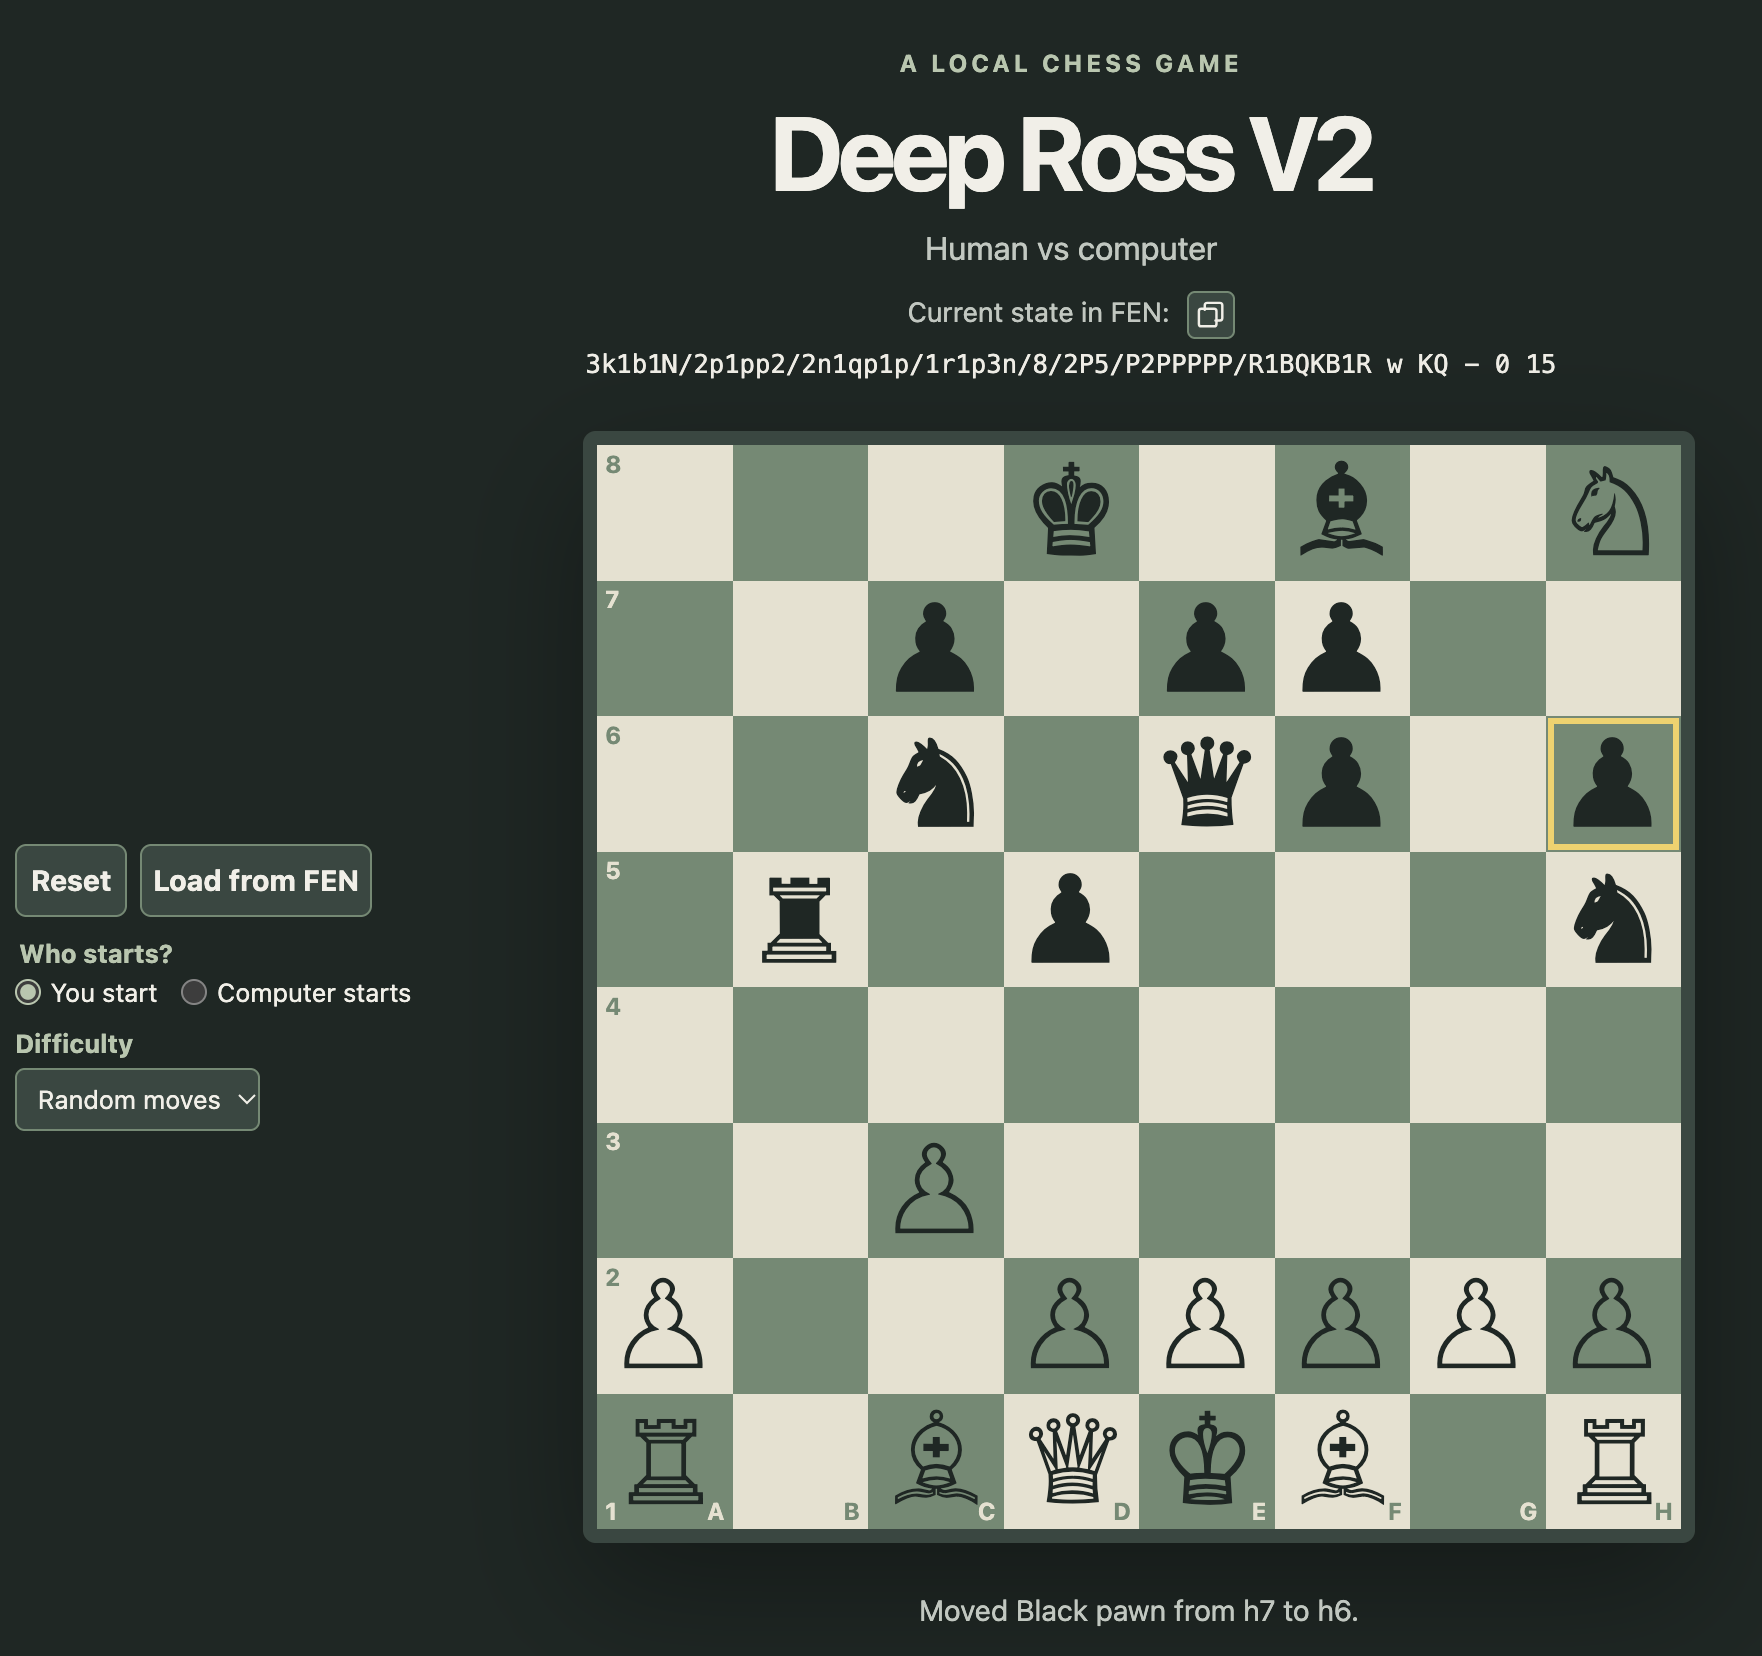
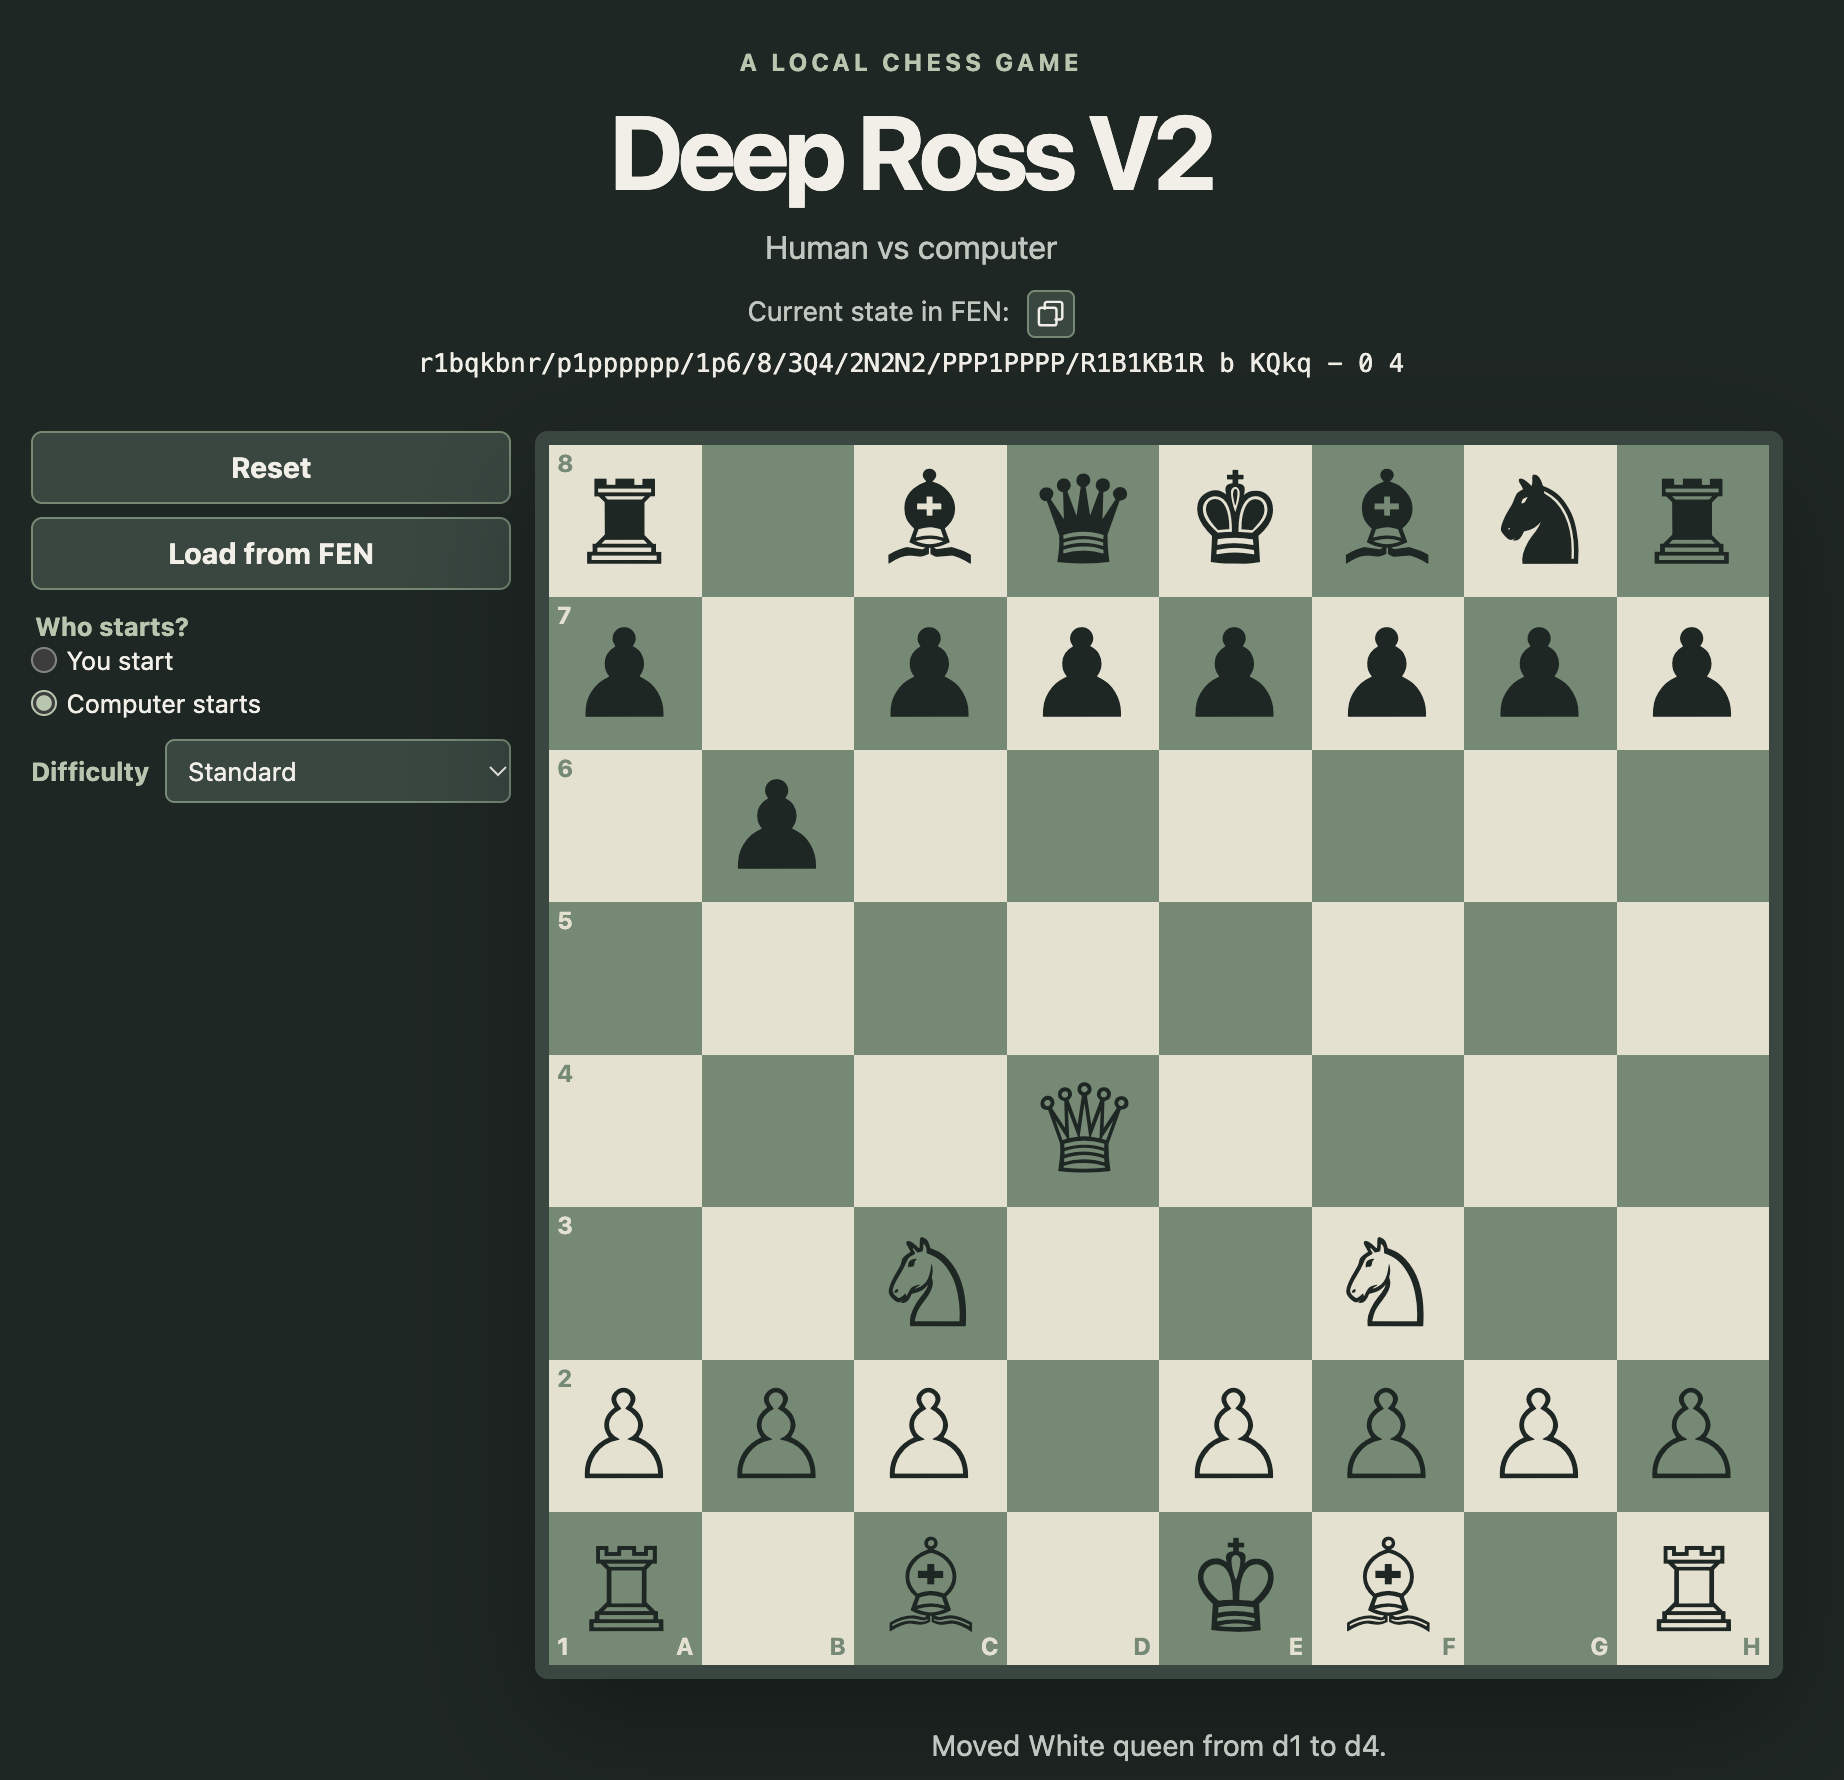
Changed styling

Changed region(s): [[0.0, 0.0308, 0.9677, 0.9855], [0.0, 0.4928, 0.2185, 0.7083]]

diff --git a/src/styles.css b/src/styles.css
@@ -102,27 +102,28 @@ h1 {
 
 .game {
     display: grid;
-    width: min(94vw, 39rem);
-    grid-template-columns: 3.5rem minmax(0, 1fr);
-    align-items: center;
+    width: min(94vw, 55rem);
+    grid-template-columns: minmax(12rem, 15rem) minmax(0, 39rem);
+    align-items: start;
     gap: 0.75rem;
 }
 
 .game-controls {
     grid-column: 1;
     grid-row: 1;
-    width: 17rem;
-    justify-self: end;
+    width: 100%;
+    justify-self: stretch;
 }
 
 .game-actions {
-    display: flex;
-    align-items: center;
+    display: grid;
+    grid-template-columns: minmax(0, 1fr);
     gap: 0.4rem;
 }
 
 .reset-button {
-    width: 3.5rem;
+    width: 100%;
+    min-width: 0;
     padding: 0.55rem 0.35rem;
     border: 1px solid #718b73;
     border-radius: 0.35rem;
@@ -135,7 +136,7 @@ h1 {
 }
 
 .load-fen-button {
-    width: auto;
+    width: 100%;
 }
 
 .reset-button:hover {
@@ -148,11 +149,10 @@ h1 {
 }
 
 .side-choice {
-    display: flex;
-    width: max-content;
+    display: grid;
+    width: 100%;
     max-width: 100%;
-    flex-wrap: nowrap;
-    gap: 0.35rem 0.75rem;
+    gap: 0.4rem;
     margin: 0.65rem 0 0;
     padding: 0;
     border: 0;
@@ -160,7 +160,7 @@ h1 {
 }
 
 .side-choice legend {
-    margin-bottom: 0.3rem;
+    margin-bottom: 0.15rem;
     color: #b7c8ae;
     font-weight: 700;
 }
@@ -169,7 +169,7 @@ h1 {
     display: flex;
     align-items: center;
     gap: 0.3rem;
-    white-space: nowrap;
+    white-space: normal;
 }
 
 .side-choice input {
@@ -179,8 +179,10 @@ h1 {
 
 .difficulty-choice {
     display: grid;
-    width: max-content;
-    gap: 0.3rem;
+    width: 100%;
+    grid-template-columns: auto minmax(0, 1fr);
+    align-items: center;
+    gap: 0.5rem;
     margin-top: 0.65rem;
     color: #b7c8ae;
     font-size: 0.8rem;
@@ -188,6 +190,7 @@ h1 {
 }
 
 .difficulty-choice select {
+    width: 100%;
     max-width: 100%;
     padding: 0.4rem;
     border: 1px solid #718b73;
@@ -430,48 +433,43 @@ h1 {
         display: grid;
         width: 100%;
         justify-self: start;
-        gap: 0 0.75rem;
-        grid-template-columns: auto 1fr auto;
-        align-items: center;
+        grid-template-columns: repeat(2, minmax(0, 1fr));
+        align-items: start;
+        gap: 0.75rem;
         margin-bottom: 0.75rem;
     }
 
     .game-actions {
-        grid-column: 1;
+        grid-column: 1 / -1;
         grid-row: 1;
     }
 
     .side-choice {
         grid-column: 2;
-        grid-row: 1;
+        grid-row: 2;
         margin: 0;
-        gap: 0.35rem 0.5rem;
         font-size: 0.72rem;
     }
 
     .side-choice legend {
-        position: absolute;
-        width: 1px;
-        height: 1px;
-        overflow: hidden;
-        clip: rect(0, 0, 0, 0);
-        clip-path: inset(50%);
-        white-space: nowrap;
-    }
-
-    .side-choice label {
-        gap: 0.2rem;
+        position: static;
+        width: auto;
+        height: auto;
+        overflow: visible;
+        clip: auto;
+        clip-path: none;
+        white-space: normal;
     }
 
     .difficulty-choice {
-        grid-column: 3;
-        grid-row: 1;
+        grid-column: 1;
+        grid-row: 2;
         margin: 0;
         font-size: 0.72rem;
     }
 
     .difficulty-choice select {
-        max-width: 8rem;
+        max-width: none;
         padding: 0.35rem;
     }
 
@@ -489,20 +487,16 @@ h1 {
 @media (max-width: 480px) {
     .game-controls {
         grid-template-columns: 1fr;
-        justify-items: start;
-        gap: 0.55rem;
+        gap: 0.65rem;
     }
 
     .side-choice {
         grid-column: 1;
-        grid-row: 2;
-        flex-wrap: wrap;
+        grid-row: 3;
     }
 
     .difficulty-choice {
         grid-column: 1;
-        grid-row: 3;
-        display: flex;
-        align-items: center;
+        grid-row: 2;
     }
 }
